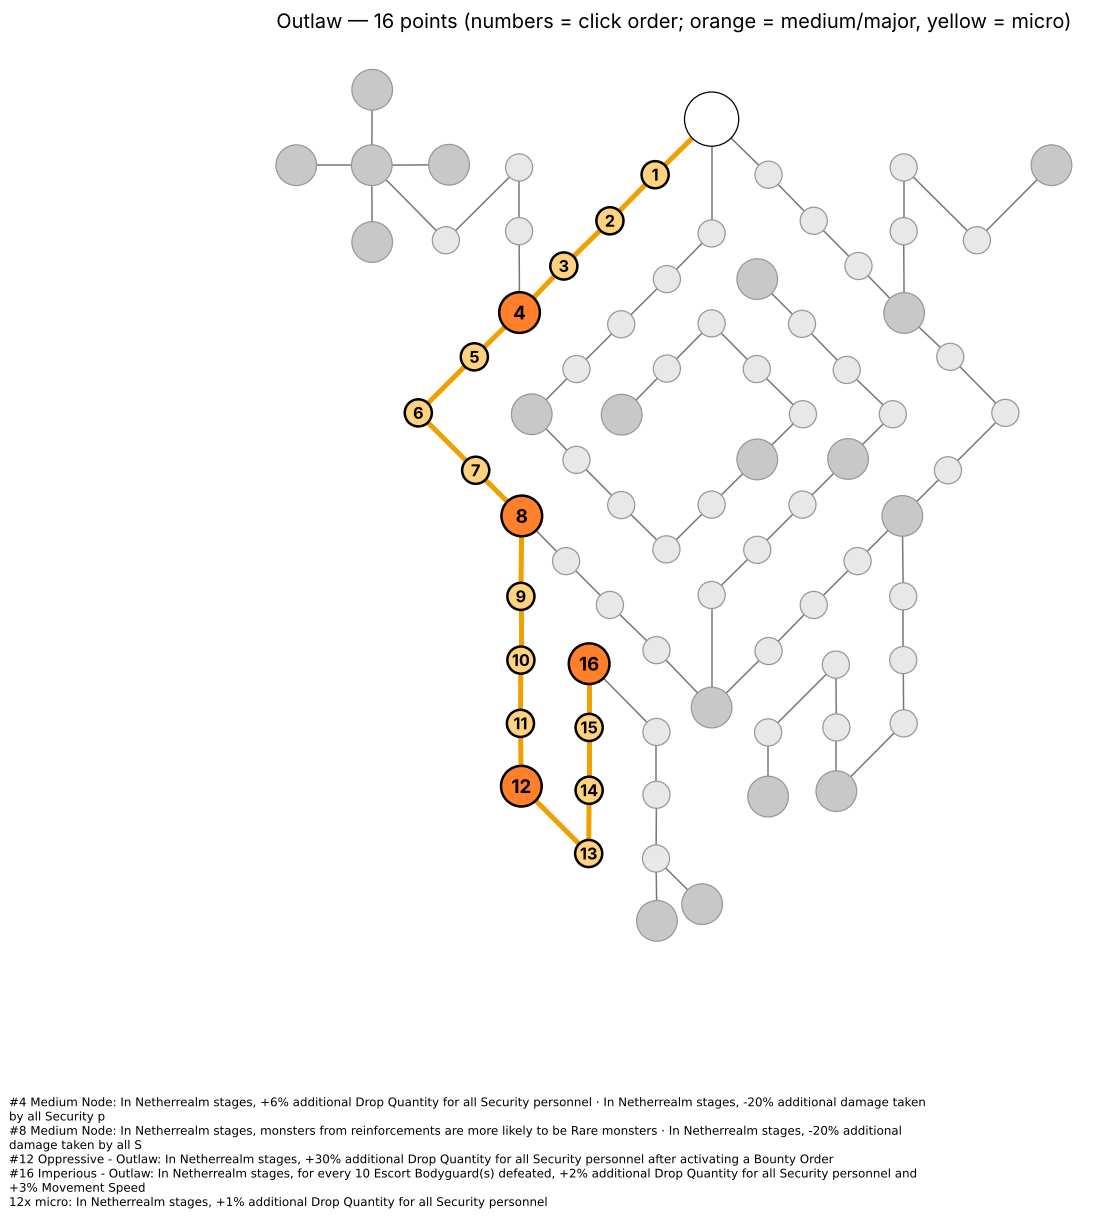
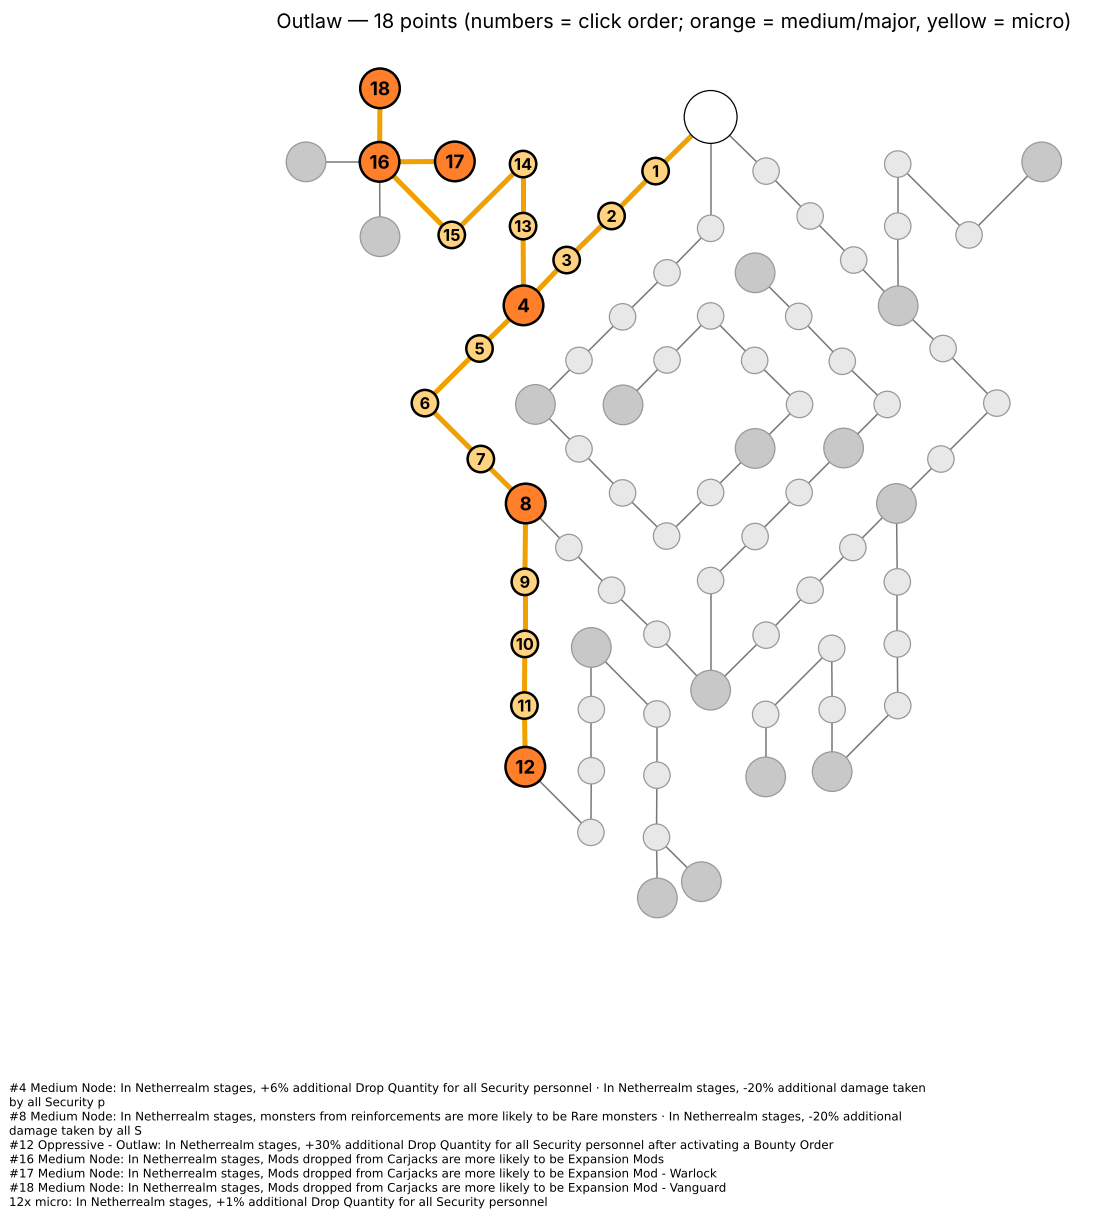
Farming: Outlaw mod-mix nodes valued from CN loot (Expansion/Warlock/Vanguard), Outlaw tree 18, stack 179/min
Claude-Session: https://claude.ai/code/session_01QrmX4b87jYhTP77qYtGUXy

diff --git a/tools/farm/bottomup.py b/tools/farm/bottomup.py
@@ -56,7 +56,10 @@ ADD_RULES = {
     "Afterlight": [(r"\+(\d+)% additional Drop Quantity (?:for|in) the Vigil", "add"), (r"\+(\d+)% additional Drop Quantity in Vigil gameplay for each stack of Fright", "add3")],
     "Overrealm": [(r"\+([\d.]+)% additional Drop Quantity in the Overrealm", "add")],
     "Lunaria": [(r"\+(\d+)% additional Drop Quantity for Lunaria gameplay", "add"), (r"\+(\d+)% additional Drop Quantity when Combo reaches 11", "add"), (r"\+(\d+)% additional Drop Quantity for Lunari monsters", "add")],
-    "Outlaw": [(r"\+(\d+)% additional Drop Quantity for all Security personnel(?! after)", "add"), (r"\+(\d+)% additional Drop Quantity for all Security personnel after activating", "add"), (r"\+(\d+)% additional Drop Quantity for the Outlaw gameplay", "add"), (r"-(\d+)% additional Drop Quantity for all Security personnel", "sub")],
+    "Outlaw": [(r"\+(\d+)% additional Drop Quantity for all Security personnel(?! after)", "add"), (r"\+(\d+)% additional Drop Quantity for all Security personnel after activating", "add"), (r"\+(\d+)% additional Drop Quantity for the Outlaw gameplay", "add"), (r"-(\d+)% additional Drop Quantity for all Security personnel", "sub"),
+               # mod-mix nodes, valued from the CN Outlaw groups (2026-10-29): Expansion share x1.5 [prior, every CN farmer has it], Warlock node
+               # Warlock 0.137 -> 0.25/map (+38% mod value), Vanguard node +21% on top
+               (r"Mods dropped from Carjacks are more likely to be Expansion Mods$", "mul1.5"), (r"more likely to be Expansion Mod - Warlock", "mul1.38"), (r"more likely to be Expansion Mod - Vanguard", "mul1.21")],
     "Machines": [(r"\+(\d+)% additional Drop Quantity during Trial: God of Machines", "add"), (r"\+(\d+)% additional Drop Quantity at the start of each round", "add"), (r"\+(\d+)% additional Drop Quantity for Drones", "add"), (r"-(\d+)% additional Drop Quantity during Trial: God of Machines", "sub"),
                  (r"\+(\d+)% chance to have 1 additional attack round", "inst_pct3"), (r"number of attacking monsters during Trial: God of Machines \+([\d.]+)%", "inst_pct"), (r"2 echelon\(s\) of Drones will show up", "inst2"), (r"2 additional echelons of Drones", "inst2"), (r"several additional echelons of Drones", "inst_dull")],
     "Hunting": [(r"\+(\d+)% additional Drop Quantity for Safari bosses' Hunting Rewards", "add"), (r"\+(\d+)% additional Drop Quantity for Stage Final Boss's Hunting Rewards(?! for every)", "addfb"),
@@ -226,6 +229,7 @@ class Setup:
             for rx, kind in ADD_RULES.get(M, []):
                 for mm in re.finditer(rx, txt):
                     x = float(mm.group(1)) if mm.groups() else 0.0
+                    if kind.startswith("mul"): add *= float(kind[3:]) ** cnt; continue
                     if kind == "add": add *= (1 + x / 100) ** cnt
                     elif kind == "add3": add *= (1 + 3 * x / 100) ** cnt
                     elif kind == "add8": add *= 1.08 ** cnt

diff --git a/ss14/thea/farming_plan.md b/ss14/thea/farming_plan.md
@@ -45,6 +45,13 @@ Variance: a third of the value is a 3,789 FE blueprint every ~80 maps and a 9,78
 Why it beats compasses: Outlaw/Dark Surge/Vigil cost 0.3-29 FE per map and add 10-15 s each; compass farms cost 70-100 FE per map
 in astrolabes and probes and compass prices keep sliding.
 
+### 22:50 — Outlaw mod-mix nodes (missed, now in)
+The model had no rule for "Mods dropped from Carjacks are more likely to be Expansion Mods / - Warlock / - Vanguard", so the
+optimizer gave them 0. CN Outlaw loot by group: with the Warlock node Warlock 0.25/map vs 0.137 without (+38% mod value), Vanguard
+node +21% on top; every serious CN Outlaw farmer has the Expansion node (valued x1.5 as a prior). Outlaw tree now 18 = micros ->
++6% -> Rare reinforcements -> Oppressive, and the side spoke to Expansion Mods -> Warlock, Vanguard (Imperious out). Stack 179 FE/min,
+211 net/map. Drawings in ss14/thea/trees/with_lunaria/.
+
 ### 4th slot and pets (22:00)
 4th slot on Alert + Bandit + Phantom: Lunaria (0.3) +18 FE/map for ~7 s = flat per minute (172 either way; its value is FE/dust
 plus the Omni-Elixir Notes lottery, 9,788 FE per ~1,100 maps); Strength in Numbers (1) 165/min; Sinful (13.5) 165, Sinful (A) (40)
